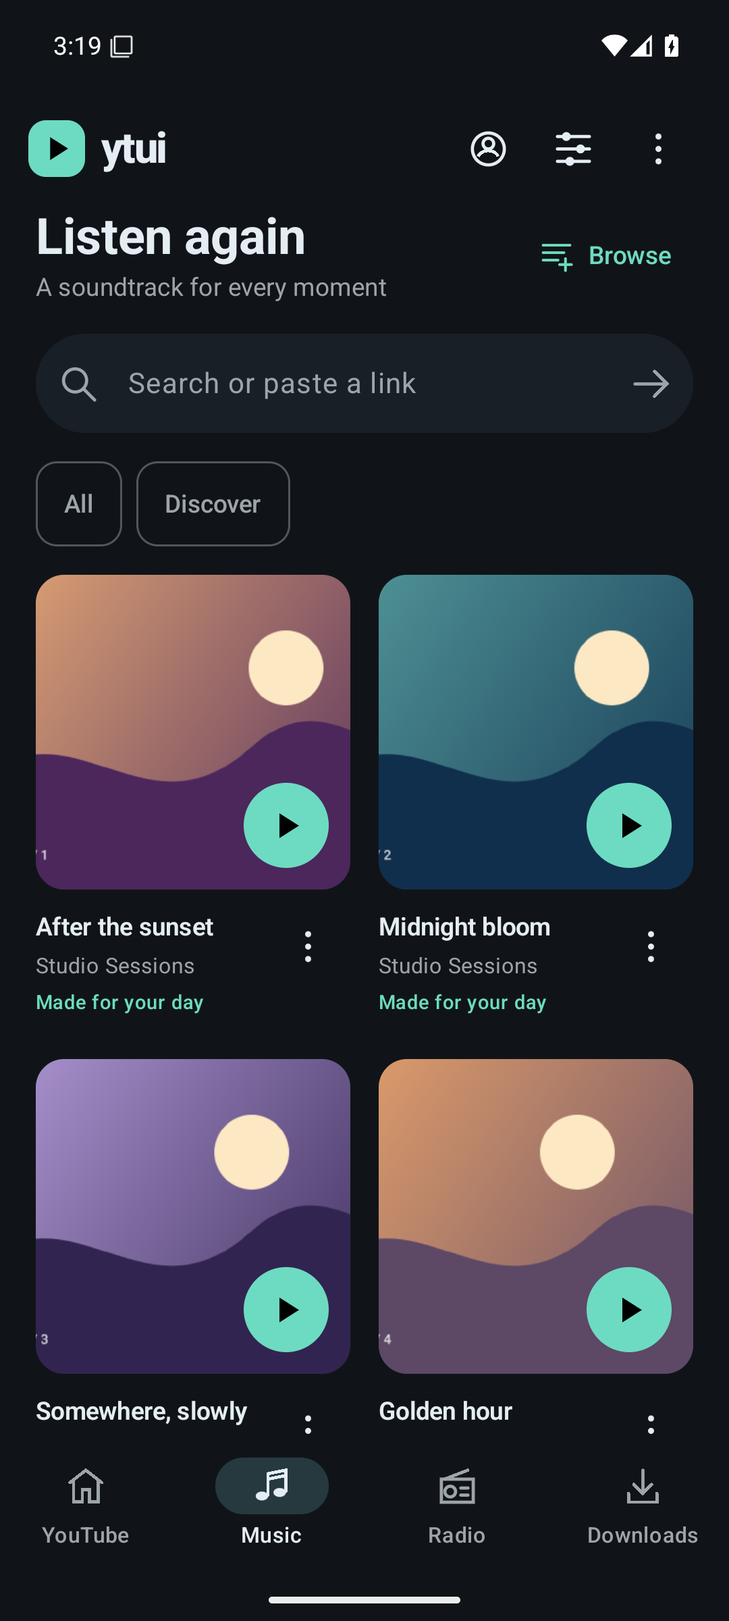
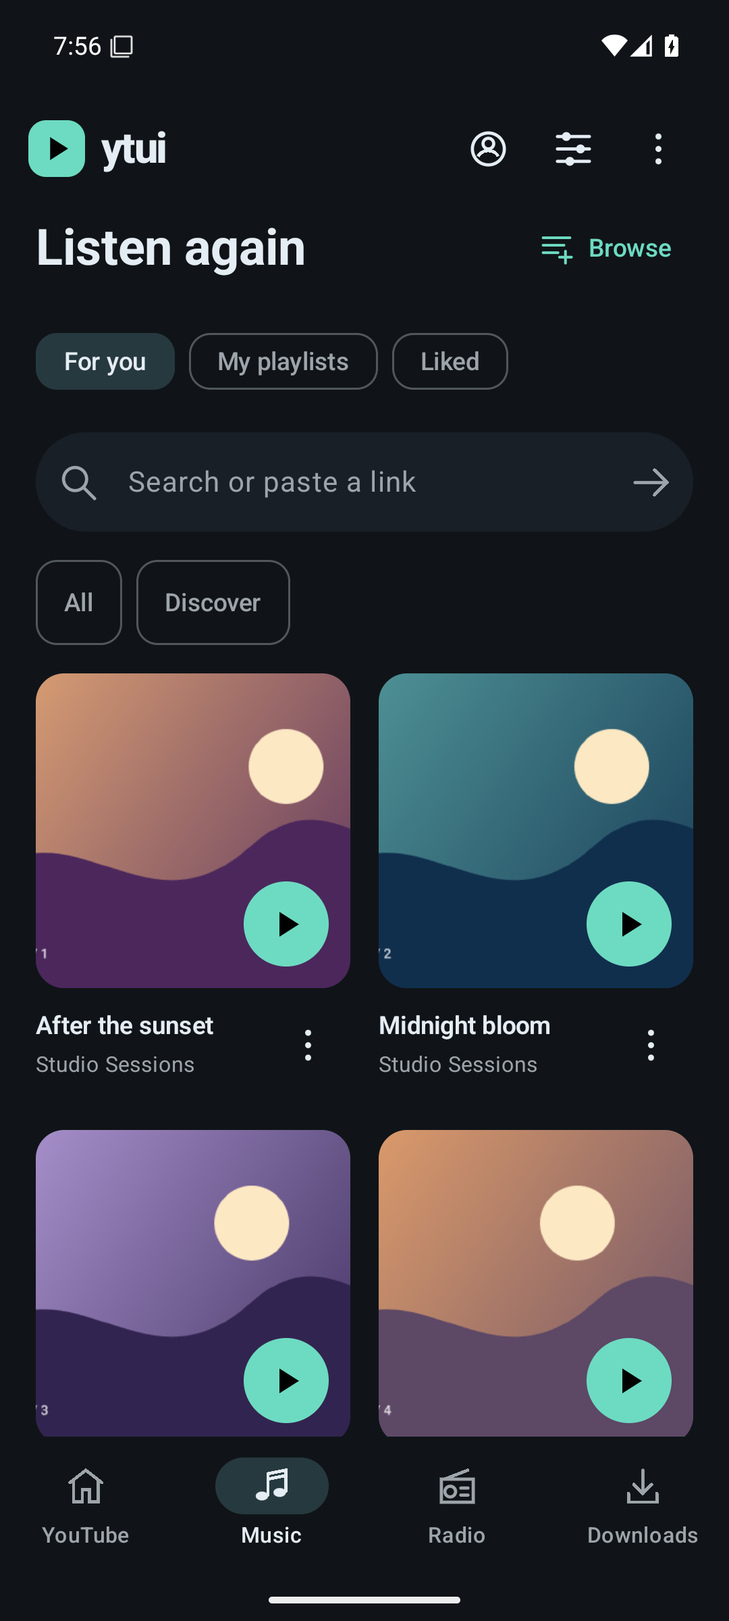
chore(M9): record mobile.4 release and strengthen validation tooling

diff --git a/apps/desktop/tests/download_recovery.rs b/apps/desktop/tests/download_recovery.rs
@@ -133,7 +133,12 @@ async fn playlist_hooks_use_each_tracks_metadata_once_even_for_duplicate_output_
         r#"printf '%s|%s|%s\n' "$YTUI_VIDEO_ID" "$YTUI_TITLE" "$YTUI_OUTPUT_PATH" >> hooks"#,
     ));
     let (job, _) = fixture.run(fixture.job()).await;
-    assert_eq!(job.state, JobState::Done);
+    assert_eq!(
+        job.state,
+        JobState::Done,
+        "fixture download failed: {:?}",
+        job.error
+    );
     let calls = std::fs::read_to_string(fixture.root().join("hooks")).unwrap();
     let lines = calls.lines().collect::<Vec<_>>();
     assert_eq!(

diff --git a/docs/android/PARITY.md b/docs/android/PARITY.md
@@ -7,26 +7,26 @@ theme application and account navigation; these require native UI re-acceptance.
 
 | Area | Android implementation | Qualification / remaining work |
 | --- | --- | --- |
-| Application UI | Native Compose media grids/IME, sans-serif type, phone navigation and tablet rail/player pane; bounded Back history | Native input/theme/account/layout checks pass in the 20-case emulator checkpoint; physical Tab S9 re-test pending. Cutouts, gestures and accessibility review remain required |
+| Application UI | Native Compose grids, keyboard/account/settings, phone navigation, tablet rail, bounded focused player and gestures | 24 actual emulator cases pass, including all 13 themes and disabled-gesture behavior; physical cutout/accessibility/jank acceptance remains |
 | Themes | 13 theme entries including system; shared dark/light palettes and document import | System light/dark maps to ytui dark/light; GNOME/Omarchy/Caelestia services are Linux-only, import their files instead |
 | Browsing | Shared Rust YouTube/Music feeds, search, categories, shelves, continuations, bounded transient retries | Personalized/anonymous live feeds must pass on devices/network; no generated catalog substituted for provider failure |
-| Images | Sized bounded disk/memory cache, virtualized rows and bounded async decode | Cold-cache images necessarily need a first fetch; device rendering/jank/memory measurements required |
+| Images | Sized bounded disk/memory cache, virtualized rows, cancellable transient retries and provider/genre radio art | Real loopback HTTP/decode/render and first-503 recovery pass; cold images need their first fetch, device memory/jank checks remain |
 | Native extraction | Pinned Rust extractor; Android isolated offline EJS batch, same strict output checks | Android System WebView feature support, real public/native corpus, account/429/consent acceptance required; no Python fallback on mobile |
-| Playback | Media3 hardware decoder and native PlayerView/captions, split audio/video, seek, pause, volume, speed, tracks, quality by re-resolution | Device codecs, live reconnect, background/notification controls, interruptions and audible output require hardware/live checks; no claim of full YouTube player parity |
+| Playback | Media3 with direct per-surface event forwarding, native transports, landscape fullscreen, captions/tracks/speed and quality via re-resolution | Actual inline/controls/fullscreen/return pixels and native pause/Next pass; live YouTube, audible output, hardware/HDR/power and OEM interruptions remain open |
 | Music/radio | Native channel/station providers, queue advancement, ICY song titles retaining station identity, vinyl and PCM-reactive VU/Orbit, persistent player volume | Real stations/ICY metadata, actual sound, battery and long-running behavior need qualification; external desktop cliamp binary cannot be launched on Android |
-| Library | Private durable saved items, queue, resume and recently played/previous/forward history; writes follow accepted decoder starts | Desktop-to-mobile library transfer and rich local collection editing are future work |
-| Queue | FIFO/shuffle, decoder-playing commit, repeat-one, touch reordering, automatic finite-collection continuation; manual items take priority | Derived collection context is rebuilt by selecting a collection after process death; related-recommendation autoplay and drag reorder gestures are not implemented |
-| Downloads | Media3 durable private cache, paired video/audio, play offline, pause/remove/refresh failed stream; full-playlist preparation; completed progressive media export through Android's document picker | Export copies MP4/M4A/WebM or muxes compatible paired tracks without re-encoding; segmented/HLS exports and unsupported codec combinations are rejected explicitly. No MP3/FLAC transcoding, cut/split/chapter edits, scheduling or desktop output templates yet; cached files remain private until explicitly exported |
+| Library | Durable local saved items, editable offline playlists, queue/resume and history committed on accepted decoder starts | Actual playlist edits, granted folders, cache-free local playback and offline EOF pass; desktop-to-mobile private library transfer remains open |
+| Queue | FIFO/shuffle, decoder-playing commit, repeat-one, button reordering, finite collections, related-media tail and scoped Next preloading | Manual queue priority and blocked-tail adapter Next pass; process-death derived context rebuild and drag reorder remain limitations |
+| Downloads | Media3 durable cache, complete collection preparation, mode/quality identities, Offline/Playlists/Transfers views, separate Music/Video folders and compatible automatic exports | MP4/M4A/WebM copy or compatible mux is tested. Segmented/HLS exports, unsupported codec combinations, MP3/FLAC transcoding, cuts/chapters, scheduling and desktop output templates remain unsupported |
 | Playlist preparation | Bounded collection expansion, checkpoint file and per-entry progress, cooldown, download-index acknowledgement before advancing | Cancel/remove preparation is supported; retry currently creates a new preparation job (URL-keyed downloads deduplicate), failed-entry-only retry and retention cleanup need work |
-| Account | Explicit sign-in page with Use this session / Cancel controls, cookie document/header import; AES-GCM session envelope with a non-exportable Android Keystore key; private atomic persistence, legacy migration, reload and disconnect | Sign-in may be rejected by Google; Android cannot import another app's private browser DB; no OAuth claim. Missing/invalidated keys require reconnecting; hardware-backed key availability depends on the device. Device encryption/migration tests must pass before qualification |
+| Account | Explicit sign-in page with Use this session / Cancel controls, cookie document/header import; AES-GCM session envelope with a non-exportable Android Keystore key; private atomic persistence, legacy migration, reload and disconnect | Sign-in may be rejected by Google; Android cannot import another app's private browser DB; no OAuth claim. Missing/invalidated keys require reconnecting; hardware-backed key availability depends on the device. Synthetic encryption/tamper/migration/disconnect cases pass on the emulator; real account and hardware-backed key acceptance remain |
 | SponsorBlock | Shared public-ID API, marks, automatic skipping and replay, settings | Live timing, seeks and replay need media/device acceptance; it does not block YouTube UI/network ads globally |
 | Lyrics | Explicit reviewed LRCLIB lookup, candidate selection, timed follow/seek, LRC/text document import, text editor, persistent per-song timing adjustment | Local lyric library is bounded to 100 songs / 8 MiB; edits are app-private, external sidecar export is not implemented; live LRCLIB/device text-input acceptance remains |
-| Settings | Native appearance/player/network/account controls with shared Rust validated config; live palette application | Desktop-specific backend/tool paths are not offered as mobile capabilities; complete advanced desktop forms/profile parity remains open |
+| Settings | Native Appearance, Playback, Offline & storage, Video information, Network, Privacy and Account categories; live shared palettes and personal playlist sources | Native entry/input/theme paths pass; desktop-specific tools are excluded and advanced desktop profile/form parity remains open |
 | Background | MediaSession foreground playback, download service, WorkManager preparation | OS power limits/Android 15 service limits and OEM battery management apply; real lockscreen/headset/Bluetooth/service recreation gates remain |
 | Linux integration | Desktop continues using mpv, MPRIS, browser import and desktop themes | MPRIS, system keyring, NetworkManager, Proton control, external cliamp and executable launch are intentionally desktop-only |
-| Distribution | Separate ytui Preview debug package, universal ARM64/x86-64 APKs; main-only signed-build workflow with explicit versions and private owner credentials; signature/16 KiB checks | Owner stable identity signs locally with a private SSH-encrypted recovery backup; no GitHub signing secrets required. Final APK publication and physical update acceptance remain open |
+| Distribution | [Signed mobile.4](https://github.com/Vanir20342222/ytui/releases/tag/android-0.2.0-alpha.12-mobile.4), stable identity, universal ARM64/x86-64, signature/source/16 KiB checks and private SSH-encrypted recovery | Public APK hash verified; no GitHub signing secrets required. Old Preview apps remain separate. Physical in-place stable updates remain to be accepted |
 
 Before promoting this preview, finish outstanding mobile capability gaps, qualify
-all three target usage modes (phone, tablet, desktop), configure a stable release
-signing identity and retain the existing desktop release gates. Do not mark M9
+all three target usage modes (phone, tablet, desktop), retain the stable identity and its encrypted recovery, qualify physical updates,
+and retain the existing desktop release gates. Do not mark M9
 complete based on compilation or simulated UI frames.

diff --git a/docs/android/PLAYER_LIBRARY_VALIDATION_2026-10-29.md b/docs/android/PLAYER_LIBRARY_VALIDATION_2026-10-29.md
@@ -1,0 +1,55 @@
+# Android player/library qualification — 2026-10-29
+
+[Download the signed APK](https://github.com/Vanir20342222/ytui/releases/download/android-0.2.0-alpha.12-mobile.4/ytui-0.2.0-alpha.12-mobile.4.apk) · [Release, checksum and inspection](https://github.com/Vanir20342222/ytui/releases/tag/android-0.2.0-alpha.12-mobile.4)
+
+Version **0.2.0-alpha.12-mobile.4**, code **4**, Android 8/API 26+, ARM64/x86-64. Source **`cf8046508b96962f1b5ba9efc3529c4427d64b9f`** includes PRs #21, #22 and #23. This is a development preview with a stable signing identity, not a production/parity claim.
+
+```text
+SHA256 4eeaa2145a0b7b08328d940e84c16e1375e481c859f48ac5127e3598301b05c4
+```
+
+## Delivered behavior
+
+- The native video view receives per-surface frame events directly from ExoPlayer. A separate MediaSession adapter handles external metadata/controllers. This repairs black inline video and video disappearing behind fullscreen controls. Native Next/Previous retain queue policy; pause retains user reconnect intent. Landscape fullscreen and both exit routes reuse the decoder and restore visible inline video.
+- Stream resolution reuses bounded account/network/quality-scoped clients and expiring leases. Public versioned player assets are cached. Next warms the selected candidate; visible playlist items work while the full collection prepares. Manual queues take priority, and acceptance of actual decoder starts governs history/queue writes. Related-media preparation is enabled by default outside collections, without online fallback for explicit offline media.
+- Seeking is optimistic during touch and reconciles acknowledged positions. The focused song player is non-scrolling, with Vinyl, VU and Orbit, secondary controls, music-only transitions and reduced-motion handling. Disabled gestures also disable header dragging; icon minimization remains available. Covered catalogs leave accessibility traversal and the focused pane is announced.
+- Settings have Appearance, Playback, Offline & storage, Video information, Network, Privacy and Account categories. Personal playlists have direct source chips; video metadata visibility is configurable. Timed success notifications are removed; failures remain in screen content.
+- Sized memory/disk artwork caches retry transient failures twice with cancellation-aware backoff. Radio uses provider artwork or [documented genre photographs](RADIO_ARTWORK.md). Cold images still need their first fetch; no zero-network-latency claim is made.
+- Offline, Playlists and Transfers views support durable local playlist editing and separately chosen Music/Video document-tree folders. Compatible completed media copy/mux to those destinations and retain cache fallback when a grant is unavailable. Mode/quality identities keep separate outputs; legacy caches remain discoverable. Download parallelism is configurable from one to four, default three.
+
+## Executed checks
+
+| Check | Result |
+| --- | --- |
+| [Main Android](https://github.com/Vanir20342222/ytui/actions/runs/40837593351) | **24 passed**, 0 failures/errors, 1 explicit opt-in public YouTube skip across 25 JUnit cases |
+| Visible native UI | Keyboard/Unicode, account navigation, all 13 theme paints/persistence, phone/tablet cards and actions, square covers, three visualizers, disabled gestures and icon minimize |
+| Actual media/storage | Inline/fullscreen/return RGB frames; decoded video behind visible controls; native play/pause/reconnect intent; adapter Next while collection is blocked under 3 seconds; queue/EOF/history, volume, ICY, split media, exports, real folder grant and cache-free local playlist EOF |
+| Continuous logs | **0 app ANRs, 0 Rust panic markers** |
+| [Main Rust](https://github.com/Vanir20342222/ytui/actions/runs/40837593137) | **328 default tests passed**, 31 explicitly ignored; formatting, strict Clippy, local-media integration checks and release build passed |
+| Android release | Both Rust ABIs built locally; **14 release JVM tests**, compile and lint passed. Hosted debug JVM tests/build/lint passed |
+| Signing/publication | Six synthetic boundary tests; certificate, source marker, package/version, ZIP/ELF 16 KiB alignment, JNI and notices verified. [Publisher](https://github.com/Vanir20342222/ytui/actions/runs/40839716818) republishes the privately signed APK without rebuilding/re-signing |
+| Public download | Downloaded the public GitHub APK and matched the SHA256 above |
+
+[Actual native gallery](../screenshots/android/README.md) · [Complete device artifact](https://github.com/Vanir20342222/ytui/actions/runs/40837593351/artifacts/12882181356)
+
+A previous passing run missed the fullscreen toolbar black-frame bug because frame and control assertions were separate. Manual review found **zero** RGB pixels behind the controls. The final test requires both at once; the qualified main capture has more than 200,000 pixels in each tested colour band. TextureView is the currently qualified presentation; hardware/HDR/power measurements remain open.
+
+One earlier PR Rust run failed an existing download-hook fixture. One hundred local repetitions of the full fixture suite and one job rerun passed; main passed without a rerun. The original failure was retained. Its OS cause was not captured, so no product fix is claimed; the follow-up assertion includes its job error for future diagnosis. A Windows-wrapper attribute mismatch also produced a false dirty worktree despite byte-for-byte equality; byte-preserving attributes address that tooling issue.
+
+The first publisher attempt received an expired five-minute APK-transfer ticket. A fresh transfer succeeded; no app rebuild, key upload or checksum change was involved.
+
+## Installation and signing
+
+Open the APK from Android Files and install **ytui** (`dev.ytui.android.stable`). It installs alongside older **ytui Preview** and original development packages without deleting their private data. Account/settings/library are separate: sign in and choose folders once. Future stable-channel updates use this same certificate:
+
+```text
+B3:E9:F1:A7:0D:D6:59:78:84:D1:DB:BA:09:EA:FA:D3:D4:D7:3E:A6:2C:40:74:A9:B8:CE:C1:AC:1E:03:48:48
+```
+
+The private identity remains outside Git, with owner-only SSH-encrypted recovery. No GitHub signing-secret setup is needed. Only the finished APK went through the temporary transfer; that staging file was removed after public verification. [Recovery/update instructions](SIGNING.md).
+
+## Remaining acceptance
+
+The earlier opt-in [public YouTube run](https://github.com/Vanir20342222/ytui/actions/runs/40781371045) failed native extraction with invalid player responses and a probable hosted-IP block. The default skip and local fixtures do not erase that failure. **Real YouTube startup within three seconds is not established.** Do not import personal sessions into public CI or retry aggressively to hide that result.
+
+Galaxy Tab S9/Nothing Phone (3a), audible output, real personalized/anonymous feeds, Google sign-in policy, hardware codecs/HDR/power, OEM background behavior, active public streams and physical in-place stable updates require [device acceptance](DEVICE_ACCEPTANCE.md). [Parity](PARITY.md) lists desktop-only and unimplemented mobile capabilities, including MP3/FLAC transcoding, segmented exports and advanced desktop editing/scheduling. M9 remains a preview until those relevant acceptance gates are met.

diff --git a/docs/android/README.md b/docs/android/README.md
@@ -1,55 +1,16 @@
 # Android development preview (M9)
 
-The Android app has a shared Rust engine and a native Jetpack Compose UI with
-artwork-first media grids, sans-serif typography and rounded native controls.
-Android supplies text fields, keyboard, touch and
-adaptive layouts. Media3 handles hardware video/captions, background playback,
-MediaSession notifications and durable downloads;
-WorkManager prepares full playlists. There is no Python or mpv executable on
-Android. The account sign-in web page is the only WebView screen.
+The app combines the shared Rust engine with a native Jetpack Compose phone/tablet UI. Media3 handles video, background playback, media controls and offline transfers. The explicit account sign-in page is its only WebView. No Python or mpv executable runs on Android.
 
-This is a development preview, not a claim of full desktop parity or completed
-Nothing Phone (3a) / Galaxy Tab S9 acceptance. Read [PARITY.md](PARITY.md) and
-[VALIDATION.md](VALIDATION.md) before treating it as a daily driver. The
-[device acceptance checklist](DEVICE_ACCEPTANCE.md) covers the native UI re-test.
-
-The [tested native UI APK and checksum](VALIDATION.md#current-direct-apk)
-cover source `5f34083`: 20 emulator checks pass, including actual keyboard input,
-all-theme contrast, account navigation and visible generated video. Real device/
-YouTube acceptance is still required; earlier failed APKs are historical only.
-
-[View actual phone, tablet, player and settings screenshots](../screenshots/android/README.md).
+[Download mobile.4 APK](https://github.com/Vanir20342222/ytui/releases/download/android-0.2.0-alpha.12-mobile.4/ytui-0.2.0-alpha.12-mobile.4.apk) · [Release/checksum](https://github.com/Vanir20342222/ytui/releases/tag/android-0.2.0-alpha.12-mobile.4) · [Validation](PLAYER_LIBRARY_VALIDATION_2026-10-29.md) · [Actual gallery](../screenshots/android/README.md)
 
 ## Install an APK
 
-The [tested native UI preview](https://github.com/Vanir20342222/ytui/releases/tag/android-media-preview-2026-10-28)
-provides a direct `.apk` download without GitHub sign-in or ZIP extraction.
-Download the APK under **Assets**, open it from Android's Files app, and permit
-installation from that source when prompted. Its checksum and inspection report
-are attached. This publishes the exact tested artifact without rebuilding or
-changing its signing identity; it remains a development preview.
+Open the downloaded APK in Android Files and allow installation from that source when prompted. Version **0.2.0-alpha.12-mobile.4**, code **4**, includes ARM64 for Galaxy Tab S9/Nothing Phone (3a) and x86-64 for emulators, requires Android 8/API 26+, and targets API 35. The public download hash and signing certificate were verified.
 
-For other CI builds, sign in to GitHub in your browser first.
-Open the repository's **Actions → Android → successful run → Artifacts** and
-download `ytui-android-<commit>`. Extract the ZIP and install `app-debug.apk` using
-Android's file manager, permitting installation from that source when prompted.
-The APK includes ARM64 (both requested devices) and x86-64 (emulators), requires
-Android 8/API 26 or newer, and targets API 35. Verify its SHA256 using the included
-`SHA256-and-checks.txt`.
+Open **ytui** (`dev.ytui.android.stable`). It installs alongside older Preview/original development apps, preserving their private data. Its account/settings/library are separate, so sign in and choose folders once. Future stable-channel updates use the same private identity. No GitHub signing-secret setup is needed; [recovery and updates](SIGNING.md) explain the encrypted owner backup. Debug Actions artifacts still install as **ytui Preview** and may have disposable identities.
 
-New debug builds install as **ytui Preview** (`dev.ytui.android.preview`), alongside
-older APKs and the owner-signed stable channel (`dev.ytui.android.stable`). They do not remove or
-migrate the other app's private account/library/cache. Open the **ytui Preview**
-launcher to test the redesign; connect your account explicitly in that app.
-Release builds keep the original package and label.
-
-These APKs use development signing. Different CI runners can have different
-keys: updates require the same signing key. Do not uninstall a working install
-without exporting wanted data; uninstalling removes private account/library and
-offline media. Stable, signed, in-place updates need a separately configured
-release keystore and release process. No private signing key is checked in.
-The manual [signed-build workflow and identity setup](SIGNING.md) provide that
-build path without committing secrets; an owner must configure the identity.
+This is a development preview, with 24 passing runtime cases and one explicitly skipped public YouTube case. Real YouTube latency, audible output, physical-device updates and [parity/device gates](PARITY.md) remain open. [Device checklist](DEVICE_ACCEPTANCE.md).
 
 ## Navigate
 
@@ -57,7 +18,7 @@ First installations default to 1080p with H.264/AAC preference for mobile decodi
 and portable file export; audio-only playback still selects the best audio.
 Existing quality choices are preserved. Choose Best explicitly for unrestricted formats.
 Use the bottom navigation for YouTube, Music, Radio and Downloads. Search accepts words
-or a media URL. **Feeds** selects provider shelves; categories and pagination use
+or a media URL. **Browse** selects provider shelves; categories and pagination use
 server responses. The top **⋮** menu, **sliders** (Settings) and **profile** (Account) icons provide touch controls.
 Tap artwork to play/open it. The card's **⋮** menu contains preview, queue, save
 and download actions. Downloads → Add URL
@@ -78,6 +39,10 @@ played item; Next follows the manual queue, forward history, then collection.
 Notification/media-session controls use those same actions. History is local and
 can be disabled or cleared with resume positions. A stopped/killed process does
 not retain derived collection context; select the collection again to rebuild it.
+
+Outside a collection, **Related media** prepares the next item by default; disable it under Playback. Prefetch respects the mobile-data setting. For Music/Radio, tap the mini-player for the non-scrolling classic/Vinyl/VU/Orbit screen; use its down icon or enabled swipe gesture to minimize. Advanced options open separately. Video has native controls and a landscape fullscreen icon; quality remains available from Playback options.
+
+Downloads has **Offline**, **Playlists** and **Transfers** sections. Create and edit local offline playlists there. Settings → Offline & storage chooses separate Music and Video folders through Android's folder picker; compatible completed media can save there automatically. Private streaming cache stays separate and unavailable grants retain cached media. **My playlists** chips in YouTube/Music open the account's own collections.
 
 Menu → **Lyrics** opens a song-specific view. Review title and artist
 before choosing Find on LRCLIB; no automatic lookup or cookies are sent. Choose

diff --git a/docs/android/VALIDATION.md b/docs/android/VALIDATION.md
@@ -1,11 +1,22 @@
-# Android validation record — 2026-10-28 (M9)
+# Android validation record (M9)
+
+## Player/library preview: signed and qualified (2026-10-29)
+
+Source `cf8046508b96962f1b5ba9efc3529c4427d64b9f` passes [main Android](https://github.com/Vanir20342222/ytui/actions/runs/40837593351), [Rust](https://github.com/Vanir20342222/ytui/actions/runs/40837593137) and Secret scan. **24 runtime cases pass**, one public opt-in case skips; all 13 themes, visible video behind native controls, fullscreen return, native transports, offline folders/playlists and cover recovery pass. Logs contain zero app ANRs/Rust panic markers. The local signed release passes both ABI builds, 14 JVM tests, lint and signature/alignment/notices inspection.
+
+### Current direct APK
+
+[Download 0.2.0-alpha.12-mobile.4](https://github.com/Vanir20342222/ytui/releases/download/android-0.2.0-alpha.12-mobile.4/ytui-0.2.0-alpha.12-mobile.4.apk) · [Public checksum/inspection](https://github.com/Vanir20342222/ytui/releases/tag/android-0.2.0-alpha.12-mobile.4). Package `dev.ytui.android.stable`, launcher **ytui**, code **4**, Android 8+, ARM64/x86-64. Installs separately from old Preview apps; subsequent stable updates retain this signing identity. No GitHub signing secrets are required.
+
[1 lines of base64/hex data omitted]
+
 
 Android is a development preview. No physical Nothing Phone (3a) or Galaxy Tab S9
 has been connected. No personal cookies, browser database, VPN or desktop
 appearance settings were used or changed by these tests. Fixture decoding,
 public-provider checks and hardware acceptance are recorded separately.
 
-## Current modern media UI checkpoint: passed
+## Earlier modern media UI checkpoint (2026-10-28): passed
 
 Source **`5f340830c7091aa4546be0e2290560ddbd0bc3ea`**, PR merge revision
 **`bb0aa7be25668696f6f41c74c165946799975c75`**.
@@ -42,7 +53,7 @@ All theme/keyboard/account captures, JUnit and logs are in the
 [device evidence](https://github.com/Vanir20342222/ytui/actions/runs/40712963078/artifacts/12828725236).
 Emulator software decoding does not establish physical hardware or audible output.
 
-### Current direct APK
+### Earlier direct APK
 
 [Download ytui Preview](https://github.com/Vanir20342222/ytui/releases/download/android-media-preview-2026-10-28/ytui-preview-0.2.0-alpha.12-mobile.3.apk)
 or open the [preview assets/checksum](https://github.com/Vanir20342222/ytui/releases/tag/android-media-preview-2026-10-28).

diff --git a/docs/screenshots/android/README.md b/docs/screenshots/android/README.md
@@ -1,9 +1,15 @@
-# Android media UI
+# Android player and library UI
 
-Actual API 35 emulator captures from tested source `5f34083`, [Android run 40712963078](https://github.com/Vanir20342222/ytui/actions/runs/40712963078). Phone captures are 1080×2400; tablet is 2560×1600. The catalog and covers are original generated offline test fixtures, not a real account or live provider feed. Production screens display provider results and their own artwork. No screenshot has been edited.
+Actual unedited API 35 captures from source `cf8046508b96962f1b5ba9efc3529c4427d64b9f`, [qualified main run](https://github.com/Vanir20342222/ytui/actions/runs/40837593351). Phone views are 1080×2400, tablet 2560×1600, fullscreen 2400×1080. The catalog, artwork and RGB video are original generated offline fixtures, not a personal account or a live YouTube feed. Production uses provider content. No capture has been cropped, resized or retouched.
 
-<img src="youtube.png" width="260" alt="Phone video catalog"> <img src="music.png" width="260" alt="Phone music catalog"> <img src="settings.png" width="260" alt="Grouped settings">
+<img src="youtube.png" width="260" alt="Phone video catalog"> <img src="music.png" width="260" alt="Square music artwork"> <img src="settings.png" width="260" alt="Native categorized settings">
 
-![Tablet catalog](tablet.png)
+<img src="vinyl.png" width="260" alt="Focused vinyl player"> <img src="vu.png" width="260" alt="Focused VU player"> <img src="orbit.png" width="260" alt="Focused Orbit player">
 
-[Full player capture](player.png). All 13 theme captures, account/keyboard screenshots, logs and JUnit are in the [device evidence](https://github.com/Vanir20342222/ytui/actions/runs/40712963078/artifacts/12828725236). These captures establish emulator rendering, not real YouTube or physical device acceptance.
+![Video and native controls visible in the same frame](video-controls.png)
+
+[Fullscreen without controls](video-fullscreen.png) · [Visible video after returning](video-return.png) · [Classic player](player.png)
+
+![Adaptive tablet catalog](tablet.png)
+
+All 13 theme captures, keyboard/account evidence, JUnit and logs are in the [device artifact](https://github.com/Vanir20342222/ytui/actions/runs/40837593351/artifacts/12882181356). It has 24 passing runtime cases, one explicit public-service skip, zero app ANRs and zero Rust panic markers. [Signed APK](https://github.com/Vanir20342222/ytui/releases/download/android-0.2.0-alpha.12-mobile.4/ytui-0.2.0-alpha.12-mobile.4.apk) · [Validation and limits](../../android/PLAYER_LIBRARY_VALIDATION_2026-10-29.md). Emulator rendering does not establish audible output or physical-device/live YouTube acceptance.

diff --git a/docs/android/DEVICE_ACCEPTANCE.md b/docs/android/DEVICE_ACCEPTANCE.md
@@ -1,11 +1,6 @@
 # Native Android UI device acceptance (M9)
 
-The first physical Tab S9 preview failed input, theme and account navigation.
-Use the modern native UI build (`0.2.0-alpha.12-mobile.3`) for re-testing.
-Open the **ytui Preview** launcher; it installs separately from the older app,
-with its own account/settings/library. Your original installation stays intact.
-Check **⋮ → About** for the version and source revision; use the exact APK linked
-from the corresponding successful Android workflow run, not an earlier artifact.
+Use the [signed mobile.4 APK](https://github.com/Vanir20342222/ytui/releases/download/android-0.2.0-alpha.12-mobile.4/ytui-0.2.0-alpha.12-mobile.4.apk) for the current checks. Open **ytui** (`dev.ytui.android.stable`), version **0.2.0-alpha.12-mobile.4**, code **4**. It installs separately from older Preview/original apps, retaining their private data. Account/settings/library are separate; reconnect and choose Music/Video folders once. About shows the exact source; [qualified build](PLAYER_LIBRARY_VALIDATION_2026-10-29.md) records the public checksum and certificate.
 
 This checklist supplements emulator tests. Do not send cookies, account files,
 authorization headers or signed media URLs in a bug report. Keep wanted app data
@@ -34,11 +29,11 @@ On the Samsung Tab S9, then the Nothing Phone (3a):
 6. Repeat with Music and Radio. Verify volume persists across station changes,
    station identity remains visible when ICY song titles change, and finite Music
    collections advance. Check queue/Previous/Next and lockscreen/headset controls.
-7. Select Vinyl, VU and Orbit under Music/Radio. Animation should stop on pause;
+7. Select Vinyl, VU and Orbit under Music/Radio. The song view should stay non-scrolling. Test category swipes, swipe-to-minimize and disabled gestures; icon minimization should always work. Animation should stop on pause;
    meters should react to decoded sound. Check reduced motion and backgrounding.
 8. Download an individual item and a dedicated playlist URL. Verify every entry,
    pause/retry/remove, offline playback after disconnecting the source network,
-   and exporting a completed file. MP3/FLAC transcoding is not offered on Android.
+   and exporting a completed file. Choose separate Music/Video folders, verify automatic compatible export, and create/rename/reorder/play a local offline playlist. MP3/FLAC transcoding is not offered on Android.
 9. Open queue, recently played, lyrics, sleep timer and About. Check lyric editing,
    local LRC import, timing offset and tap-to-seek against the current song.
 10. Repeat navigation in portrait, landscape and split screen. Catalog controls,

diff --git a/README.md b/README.md
@@ -1,11 +1,10 @@
 # ytui
 
-A Rust monorepo for YouTube, YouTube Music, downloads and radio. The desktop app
-is a terminal application; the new [Android development preview](docs/android/README.md)
-has a Rust touch UI for phones and tablets. The interface
-uses Lazygit-style panes, keyboard navigation, inline thumbnails and mpv playback.
-Omarchy + Ghostty + Brave Origin is the current desktop target; CachyOS/Caelestia
-remain historical compatibility targets.
+A Rust monorepo for YouTube, YouTube Music, downloads and radio. The desktop app uses Lazygit-style terminal panes, keyboard navigation, thumbnails and mpv. [Android](docs/android/README.md) uses the shared Rust engine with a native Jetpack Compose UI for phones and tablets.
+
+[Download Android mobile.4](https://github.com/Vanir20342222/ytui/releases/download/android-0.2.0-alpha.12-mobile.4/ytui-0.2.0-alpha.12-mobile.4.apk) · [Player/offline features and validation](docs/android/PLAYER_LIBRARY_VALIDATION_2026-10-29.md) · [Phone/tablet gallery](docs/screenshots/android/README.md)
+
+Omarchy + Ghostty + Brave Origin is the current desktop target; CachyOS/Caelestia remain compatibility targets.
 
 This is the **0.2.0-alpha.12 candidate** ([audit fixes and acceptance](docs/AUDIT_IMPLEMENTATION.md)).
 [Local acceptance](docs/LOCAL_ACCEPTANCE_2026-10-26.md) records verified target-PC

diff --git a/RUST_REWRITE_PLAN.md b/RUST_REWRITE_PLAN.md
@@ -1,9 +1,6 @@
 # ytui Rust rewrite plan
 
-M9 player/library follow-up is being qualified: bounded resolution/prefetch,
-responsive player/fullscreen, categorized settings and offline playlists/folders.
-[The implementation and acceptance tracker](docs/android/PLAYER_LIBRARY_PLAN.md)
-separates source completion from actual device/YouTube timing and signing gates.
+M9 player/library follow-up (2026-10-29): **mobile.4** is published with private stable signing. Scoped prefetch, direct native video/frame controls, non-scrolling music styles, gestures/settings and offline playlists/folders pass 24 emulator cases (one opt-in public skip), 328 offline Rust tests and 14 release JVM tests. Main release/signature/alignment checks pass; [qualification and source](docs/android/PLAYER_LIBRARY_VALIDATION_2026-10-29.md) record live YouTube/device limits. M9 remains a preview; physical/live acceptance is distinct from source implementation.
 
 M9 mobile design follow-up (2026-10-28): the user rejected terminal styling on
 Android after confirming installation. A modern native media UI with responsive

diff --git a/docs/android/PLAYER_LIBRARY_PLAN.md b/docs/android/PLAYER_LIBRARY_PLAN.md
@@ -1,5 +1,7 @@
 # Android player, latency and offline library follow-up (M9)
 
+Current source `cf8046508b96962f1b5ba9efc3529c4427d64b9f` is published as **mobile.4** after main Android/Rust/Secret checks and private signing. **24 runtime cases pass, one public opt-in case skips**. [Final qualification and remaining gates](PLAYER_LIBRARY_VALIDATION_2026-10-29.md) supersede the historical intermediate checkpoints below. Real YouTube latency and physical-device acceptance remain open.
+
 The user accepted the modern UI, then reported slow starts/Next/seeking and
 requested a focused player, fullscreen, transitions/gestures, simpler copy,
 visualizers, station artwork, richer settings, personal playlists and offline

diff --git a/docs/android/SIGNING.md b/docs/android/SIGNING.md
@@ -1,5 +1,7 @@
 # Android APK signing and updates
 
+The current [mobile.4 APK and public inspection](https://github.com/Vanir20342222/ytui/releases/tag/android-0.2.0-alpha.12-mobile.4) use the permanent certificate below. Source `cf8046508b96962f1b5ba9efc3529c4427d64b9f` passed exact-main checks; the public APK hash was independently verified. [Qualification](PLAYER_LIBRARY_VALIDATION_2026-10-29.md).
+
 Development APKs from the Android workflow use debug identities. New debug
 builds use `dev.ytui.android.preview` and the launcher label **ytui Preview**.
 This allows installing them alongside older `dev.ytui.android` development APKs

diff --git a/docs/README.md b/docs/README.md
@@ -4,6 +4,7 @@
 
 | Document | Use it for |
 | --- | --- |
+| [Android signed player/library preview](android/PLAYER_LIBRARY_VALIDATION_2026-10-29.md) | APK, native UI/controls, offline folders/playlists, signing and tested/open gates |
 | [Researched library/playback features](FEATURE_RESEARCH_2026-10-24.md) | Saved-media shelf, sleep timer, sources and verification |
 | [Alpha.12 workflows](AUDIT_FEATURES.md) | New account, collection, format, cache and support panels |
 | [Implementation tracker](AUDIT_IMPLEMENTATION.md) | Audit fixes, executed checks and remaining acceptance |
